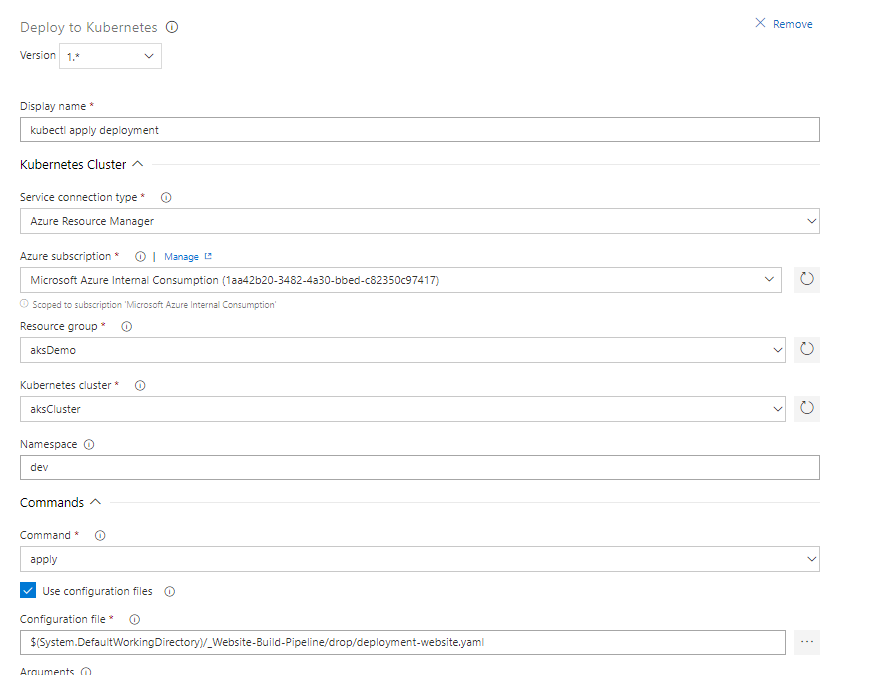
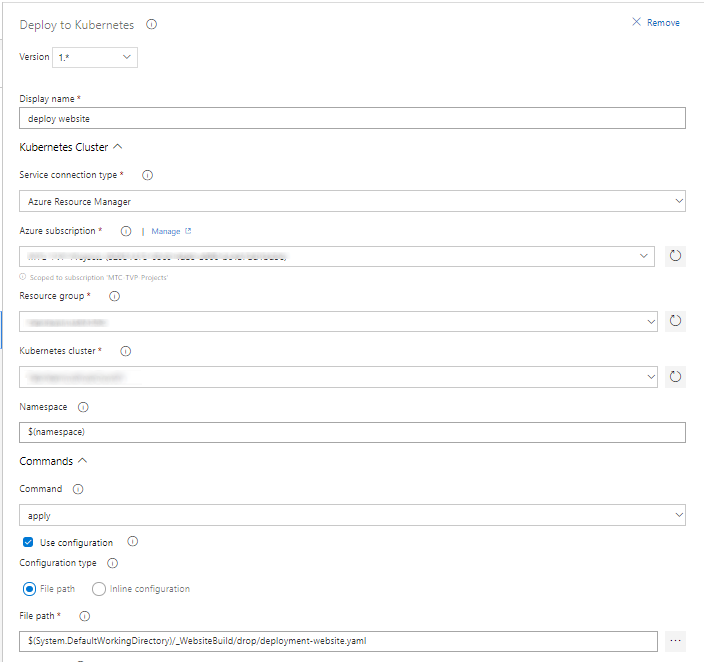
release docs

diff --git a/Documentation/ReleasePipelines/README.md b/Documentation/ReleasePipelines/README.md
@@ -41,20 +41,12 @@ This will create Stage 1, you can rename this stage to whatever you like, for ex
 
 ![Enable CI for Release](images/enablecireleasebutton.png)
 
-## 4. Add Variables
 
-Add two variables
-
-* registrylocation - set the value to your ACR login server uri
-* namespace - set this to ```dev``` and change the scope to the name of your first stage
-
-![Add Variables](images/addregistryvariable.png)
-
-## 5. Click into the Tasks for Dev Stage (Stage 1)
+## 4. Click into the Tasks for Dev Stage (Stage 1)
 
 ![Edit Release Tasks](images/editreleasetasks.png)
 
-## 6. Add Replace Tokens Task
+## 5. Add Replace Tokens Task
 Click the plus icon next to "Agent Job" to add a new task and search for "replace"
 
 > This addon needs to have been installed - https://marketplace.visualstudio.com/items?itemName=qetza.replacetokens
@@ -63,7 +55,7 @@ In the List of tasks on the left, drag the Replace Tokens to the top
 
 ![Replace Tokens](images/replacetokenstask.png)
 
-### 6.1. Edit the replace tokens task
+### 5.1. Edit the replace tokens task
 
 Set the target files to equal
 ```
@@ -77,7 +69,18 @@ This task will find all files in our artifacts that are YAML, Json or XML and th
 
 ![Replace Tokens Config](images/replacetokens.png)
 
+## 6. Add Variables
+
+Click on the variables tab and add two variables
+
+* registrylocation - set the value to your ACR login server uri
+* namespace - set this to ```dev``` and change the scope to the name of your first stage
+
+![Add Variables](images/addregistryvariable.png)
+
 ## 7. Edit the Kubectl Apply Task
+
+Click on the Tasks table and edit the Kubectl Apply Task
 
 1. Choose your subscription from the Azure Subscription drop down menu
 2. Choose the Resource Group that your AKS cluster belongs to in the Resource Group drop down menu
@@ -87,15 +90,13 @@ This task will find all files in our artifacts that are YAML, Json or XML and th
 
 ![Kubernetes Apply Command](images/apiapplycommand.png)
 
-## 8. Save the changes made to your release 
-
-## 9. Clone this Stage
+## 8. Clone this Stage
 
 Click on the 'Pipeline' tab and hove over the dev stage. Two buttons should appear and once will say clone. Click this button. Then rename the new stage to 'Prod Stage'
 
 ![Clone](images/clonestage.png)
 
-### 9.1 Set any Scoped variables for the new stage
+### 8.1 Set any Scoped variables for the new stage
 
 You should now see that a second namespace variable has been added for the new Prod-Stage.
 Set this to ```prod```
@@ -104,39 +105,44 @@ Set this to ```prod```
 
 ![Clone](images/variable-secondstage.png)
 
-# 10. Save & Trigger a new Release
+# 9. Save & Trigger a new Release
+
+As this has not been triggered by a build, you will have to select which build to release in the popup. 
 
 ![Trigger Release](images/triggerrelease.png)
 
+Going forwarded, everytime a new build of the API is completed, this release pipeline will now deploy the API to both the dev and prod namespaces in you AKS cluster.
 
 # Create the Website Release
 
 The release for the website is a little more complex as the service has more configuration, which we will inject into the container using config maps and secrets. 
 
-## 1. Repeat Steps 1-5 of the API build
-This time choose the Website build as the artifact and name the release "Website Release"
+## 1. Repeat Steps 1-5 of the API build 
+Upto and including the replace tokens task, but this time choose the Website build as the artifact and name the release "Website Release"
 
 ## 2. Set the variable for this release
 
-1. Choose your ACR login server uri and set the api key and secret to whatever you like, as it is only for demo purposes. 
-2. Themes can be Default or Blue or Red
-3. Tick the lock button next to APIKey and Secret to hide the values
+> These keys need to exactly match the placeholders in the YAML templates, JSON and XML files in our build artifacts
+
+1. apiKey - set this to whatever you like and click the lock button to hide it
+2. apiSecret - set this to whatever you like and click the lock button to hide it
+3. apiname - set this to ```api``` as that is the name of the API service in the **deployment-api.yaml** template
+4. EnvironmentName - ```Kubernetes```
+5. namespace - ```dev``` - **change the scope to the name of your first stage**
+6. registrylocation - set the value to your ACR login server uri
+7. theme - choose from blue, red or default - **change the scope to the name of your first stage**
 
 ![Website Variables](images/websitevariables.png)
 
-## 3. Add Replace Tokens Task
+## 3. Deploy a Kubernetes Secret into the Cluster
 
-Do the same as in Step 6 of the API release and make sure that this task is dragged to the top of all tasks
-
-## 4. Deploy a Kubernetes Secret into the Cluster
-
-### 4.1. Add a new Kubernetes Task
+### 3.1. Add a new Kubernetes Task
 
 Add a new task to the stage by clicking the plus icon next to the Agent Job and search for Kubernetes
 
 ![Add Kubernetes Task](images/kubernetesTask.png)
 
-### 4.2. Delete the existing secret if it exists
+### 3.2. Delete the existing secret if it exists
 
 Edit the new task and set the following properties:
 
@@ -144,7 +150,7 @@ Edit the new task and set the following properties:
 2. Choose your subscription from the Azure Subscription drop down menu
 3. Choose the Resource Group that your AKS cluster belongs to in the Resource Group drop down menu
 4. Choose your cluster from the Kubernetes cluster drop down menu
-5. Type ```dev``` into the Namespace (you should have already created a dev namespace during the creating your environment section)
+5. Type ```$(namespace)``` into the Namespace (you should have already created a dev namespace during the creating your environment section)
 6. Command - delete
 7. Arguments - ```secret website-secret```
 8. Output format - keep this empty
@@ -152,7 +158,7 @@ Edit the new task and set the following properties:
 
 ![Delete Secret](images/deletesecret.png)
 
-### 4.3. Deploy a new Secret 
+### 3.3. Deploy a new Secret 
 
 Add a new task Kubernetes task and Edit it with the following:
 
@@ -160,24 +166,24 @@ Add a new task Kubernetes task and Edit it with the following:
 2. Choose your subscription from the Azure Subscription drop down menu
 3. Choose the Resource Group that your AKS cluster belongs to in the Resource Group drop down menu
 4. Choose your cluster from the Kubernetes cluster drop down menu
-5. Type ```dev``` into the Namespace (you should have already created a dev namespace during the creating your environment section)
+5. Type ```$(namespace)``` into the Namespace (you should have already created a dev namespace during the creating your environment section)
 6. Command - Create
 7. Arguments - ```secret generic website-secret --from-file=<Location of secret-website.json here>```
 
-> Tip - To find the location of secret-website.json check the box labelled use configuration files and then select the secret-website.json from the popup window. Copy and paste this into the arguments and then un-check the check box again
+> Tip - To find the location of **secret-website.json** check the box labelled use configuration files and then select the secret-website.json from the popup window. Copy and paste this into the arguments and then un-check the check box again. **Make sure clear the box with the file path before unchecking the check box again**
 
 ![Create Secret](images/createsecret.png)
 
 > Tip - to find the correct path of the secret-website.json file, check the tick box labelled "use configurations" box above and select the file, copy the location back into the arguments, then un-check the use configurationsbox
 
-## 5. Deploy the XML Config Map
+## 4. Deploy the XML Config Map
 
 
-### 5.1. Add a new Kubernetes Task
+### 4.1. Add a new Kubernetes Task
 
 Add a new task to the stage by clicking the plus icon next to the Agent Job and search for Kubernetes
 
-### 5.2. Delete the existing config map
+### 4.2. Delete the existing config map
 
 Edit the new task and set the following properties:
 
@@ -185,7 +191,7 @@ Edit the new task and set the following properties:
 2. Choose your subscription from the Azure Subscription drop down menu
 3. Choose the Resource Group that your AKS cluster belongs to in the Resource Group drop down menu
 4. Choose your cluster from the Kubernetes cluster drop down menu
-5. Type ```dev``` into the Namespace (you should have already created a dev namespace during the creating your environment section)
+5. Type ```$(namespace)``` into the Namespace (you should have already created a dev namespace during the creating your environment section)
 6. Command - delete
 7. Arguments -  ```configmap config-xml-website``
 8. Output format - keep this empty
@@ -193,7 +199,7 @@ Edit the new task and set the following properties:
 
 ![Delete XML ConfigMap](images/deletexmlconfigmap.png)
 
-### 5.3. Deploy a new XML Config Map 
+### 4.3. Deploy a new XML Config Map 
 
 Add a new task Kubernetes task and Edit it with the following:
 
@@ -201,7 +207,7 @@ Add a new task Kubernetes task and Edit it with the following:
 2. Choose your subscription from the Azure Subscription drop down menu
 3. Choose the Resource Group that your AKS cluster belongs to in the Resource Group drop down menu
 4. Choose your cluster from the Kubernetes cluster drop down menu
-5. Type ```dev``` into the Namespace (you should have already created a dev namespace during the creating your environment section)
+5. Type ```$(namespace)``` into the Namespace (you should have already created a dev namespace during the creating your environment section)
 6. Command - Create
 7. Arguments - ```configmap config-xml-website --from-file=<Location of configmap-website.xml here>```
 
@@ -209,7 +215,7 @@ Add a new task Kubernetes task and Edit it with the following:
 
 > Again use the "Use configuration files" check box to discover the location of the file
 
-## 6. Create Json Config Map
+## 5. Create Json Config Map
 
 Add a new task Kubernetes task and Edit it with the following:
 
@@ -217,13 +223,13 @@ Add a new task Kubernetes task and Edit it with the following:
 2. Choose your subscription from the Azure Subscription drop down menu
 3. Choose the Resource Group that your AKS cluster belongs to in the Resource Group drop down menu
 4. Choose your cluster from the Kubernetes cluster drop down menu
-5. Type ```dev``` into the Namespace (you should have already created a dev namespace during the creating your environment section)
+5. Type ```$(namespace)``` into the Namespace (you should have already created a dev namespace during the creating your environment section)
 6. Command - apply
 7. Check the "Use Configuration Files" box and select the configmap-website.yaml file
 
 ![create json config map](images/createjsonconfigmap.png)
 
-## 7. Deploy the Website
+## 6. Deploy the Website
 
 Add a new task Kubernetes task and Edit it with the following:
 
@@ -231,19 +237,35 @@ Add a new task Kubernetes task and Edit it with the following:
 2. Choose your subscription from the Azure Subscription drop down menu
 3. Choose the Resource Group that your AKS cluster belongs to in the Resource Group drop down menu
 4. Choose your cluster from the Kubernetes cluster drop down menu
-5. Type ```dev``` into the Namespace (you should have already created a dev namespace during the creating your environment section)
+5. Type ```$(namespace)``` into the Namespace (you should have already created a dev namespace during the creating your environment section)
 6. Command - apply
 7. Check the "Use Configuration Files" box and select the deployment-website.yaml file
 
 ![Deploy website](images/deploywebsite.png)
 
-## 8. Trigger a new Release
+## 7. Clone this Stage
 
-Finally save the changes and click on the Release button to trigger a new release
+Click on the 'Pipeline' tab and hove over the dev stage. Two buttons should appear and once will say clone. Click this button. Then rename the new stage to 'Prod Stage'
+
+![Clone](images/clonestage.png)
+
+### 7.1 Set any Scoped variables for the new stage
+
+You should now see that a second namespace variable has been added for the new Prod-Stage.
+Set this to ```prod```
+
+> This means the Website will be deployed into the Dev namespace in the first stage of our deployment and the prod namespace in the second stage of our deployment. 
+
+![Clone](images/websitevariablestage2.png.png)
+
+
+## 8. Save & Trigger a new Release
+
+Finally save the changes and click on the Release button to trigger a new release. When triggering a release choose the latest build. 
 
 # Review
 
-After following these steps you should now have two release pipelines that are triggered from your builds. These pipelines replace values in your YAML build artifacts with variables in your release (Per Environment if required) and then deploy the config maps, secrets and services into the dev namespace of your cluster.
+After following these steps you should now have two release pipelines that are triggered from your builds. These pipelines replace values in your YAML build artifacts with variables in your release (Per Environment) and then deploy the config maps, secrets and services into the dev namespace of your cluster.
 
 
 # Next Steps 
